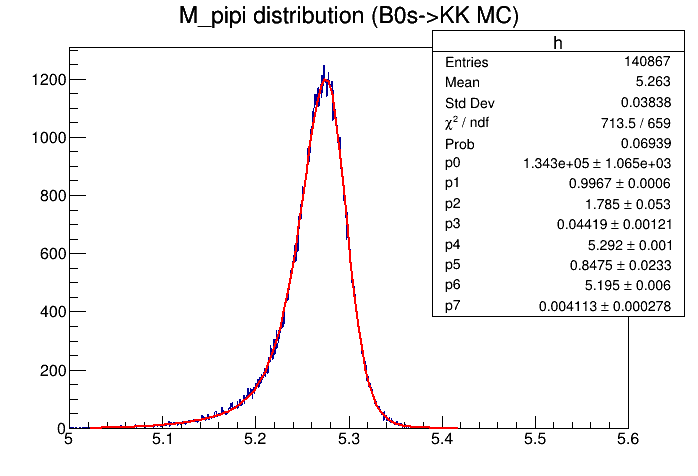
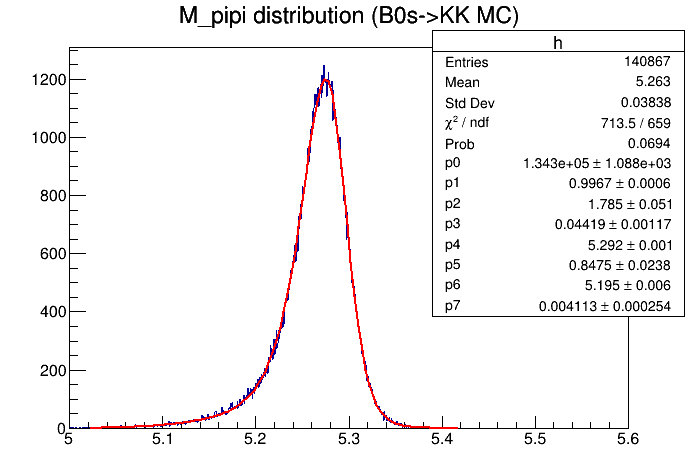
Fit functions for template fit with C++ shared library

diff --git a/template_fit/model_functions.py b/template_fit/model_functions.py
@@ -5,6 +5,16 @@ import ROOT
 import numpy as np
 
 
+def InitializeFunctionsLibrary():
+    """
+    Function that loads into the Python environment the shared library
+    containing the fit functions.
+    """
+    ROOT.gInterpreter.ProcessLine('#include "header.h"')
+    ROOT.gSystem.Load(
+        '~/cmepda/cmepda-PiKclassifier/template_fit/func_library.so')
+
+
 def BreitWigner(LowLim, UpLim, funcname='BW', pars=(2000, 5.28, 0.5)):
     """
     Returns a TF1 function corresponding to a relativistic Breit-Wigner.
@@ -25,6 +35,7 @@ def BreitWigner(LowLim, UpLim, funcname='BW', pars=(2000, 5.28, 0.5)):
     pars: tuple of double
         Initial parameters given to the function
     """
+
     arg_gamma = 'TMath::Sqrt([1]*[1]*([2]*[2] + [1]*[1]))'
     arg_kappa = '([1]*[2]*' + arg_gamma + \
         '/TMath::Sqrt([1]*[1] + ' + arg_gamma + '))'
@@ -46,13 +57,9 @@ def BreitWigner(LowLim, UpLim, funcname='BW', pars=(2000, 5.28, 0.5)):
 def DoubleGaussian(LowLim, UpLim, funcname='DoubleGaussian',
                    pars=(1.4e5, 0.5, 5.28, 0.02, 5.28, 0.02)):
     """
-    Returns a TF1 function corresponding to a weighted sum of two Gaussians.
-    The parameters are written in C++ ROOT style and represent the following
-    quantities:
-        [0] = Normalization
-        [1] = Fraction of first gaussian elements in distribution
-        [2], [3] = Mean and Sigma for first Gaussian
-        [4], [5] = Mean and Sigma for second Gaussian
+    Returns a TF1 function corresponding to a weighted sum of two Gaussians;
+    its expression is written in a C++ shared library and is imported in the
+    Python environment by the InitializeFunctionsLibrary() function.
 
     Parameters
     ----------
@@ -65,12 +72,9 @@ def DoubleGaussian(LowLim, UpLim, funcname='DoubleGaussian',
     pars: tuple of double
         Initial parameters given to the function
     """
-    const = '1/2.5066'
-    gaus1 = 'TMath::Exp(-(x-[2])*(x-[2])/(2*[3]))/[3]'
-    gaus2 = 'TMath::Exp(-(x-[4])*(x-[4])/(2*[5]))/[5]'
-    str = '[0]*6e-4*([1]*' + gaus1 + ' + (1-[1])*' + gaus2 + ')*' + const
+    InitializeFunctionsLibrary()
 
-    function = ROOT.TF1(funcname, str, LowLim, UpLim, 6)
+    function = ROOT.TF1(funcname, ROOT.DoubleGaussian, LowLim, UpLim, 6)
 
     [function.SetParameter(k, pars[k]) for k in range(6)]
 
@@ -87,12 +91,8 @@ def GaussJohnson(LowLim, UpLim, funcname='Gauss+Johnson',
                  pars=(1.4e05, 0.99, 1.75, 0.043, 5.29, 0.85, 5.19, 0.06)):
     """
     Returns a TF1 function corresponding to a weighted sum of a Johnson and a
-    Gaussian. The parameters in the definition are written in C++ ROOT style
-    and represent the following quantities:
-        [0] = Normalization
-        [1] = Fraction of first gaussian elements in distribution
-        [2], [3], [4], [5] = Johnson parameters (need to be positive!)
-        [6], [7] = Mean and Sigma for Gaussian
+    Gaussian; its expression is written in a C++ shared library and is imported
+    in the Python environment by the InitializeFunctionsLibrary() function.
 
     Parameters
     ----------
@@ -105,16 +105,9 @@ def GaussJohnson(LowLim, UpLim, funcname='Gauss+Johnson',
     pars: tuple of double
         Initial parameters given to the function
     """
-    const = '1/2.5066'
-    arg = '((x-[4])/[3])'
-    expo_arg = '([5]+[2]*TMath::ASinH' + arg + ')'
-    expo = 'TMath::Exp(-0.5*' + expo_arg + '*' + expo_arg + ')'
-    denom = 'TMath::Sqrt(1+(' + arg + '*' + arg + '))'
-    johns = '([2]/[3])*' + expo + '/' + denom
-    gaus = 'TMath::Exp(-(x-[6])*(x-[6])/(2*[7]))/[7]'
-    str = '[0]*6e-4*([1]*' + johns + ' + (1-[1])*' + gaus + ')*' + const
+    InitializeFunctionsLibrary()
 
-    function = ROOT.TF1(funcname, str, LowLim, UpLim, 8)
+    function = ROOT.TF1(funcname, ROOT.GaussJohnson, LowLim, UpLim, 8)
     [function.SetParameter(k, pars[k]) for k in range(8)]
 
     function.SetParLimits(1, 0, 1)
@@ -124,27 +117,14 @@ def GaussJohnson(LowLim, UpLim, funcname='Gauss+Johnson',
 
     return function
 
-    """
-def func_dictionary():
-    dictionary = {}
-
-    dictionary["BreitWigner"] = BreitWigner()
-    dictionary["DoubleGaussian"] = DoubleGaussian()
-    dictionary["GaussJohnson"] = GaussJohnson()
-
-    return dictionary
-"""
-
 
 if __name__ == "__main__":
 
     c = ROOT.TCanvas()
     c.cd()
 
-    a = BreitWigner(5, 5.6, pars=(1, 5.28, 0.02))
-
-    # d = func_dictionary()
-    # print(d.values())
+    a = GaussJohnson(5., 5.6, pars=(
+                     1.4e05, 0.99, 1.75, 0.043, 5.29, 0.85, 5.19, 0.06))
 
     a.Draw()
     c.SaveAs("prova_func.png")

diff --git a/template_fit/template_fit.py b/template_fit/template_fit.py
@@ -6,7 +6,7 @@ population present in the dataset Bhh_data.root
 import time
 import ROOT
 import numpy as np
-from model_functions import BreitWigner, DoubleGaussian, GaussJohnson
+from model_functions import DoubleGaussian, GaussJohnson
 
 
 def fit_on_montecarlo(df, var, fitfunc, img_name="template.png", Nbins=1000,
@@ -18,27 +18,25 @@ def fit_on_montecarlo(df, var, fitfunc, img_name="template.png", Nbins=1000,
 
     # [fitfunc.SetParameter(k, pars[k]) for k in range(len(pars))]
     fitvar = h.Fit(fitfunc, "SQLR")
-
+    '''
     c = ROOT.TCanvas()
     c.cd()
     h.Draw()
     fitfunc.Draw("same")
     c.SaveAs(img_name)
-
+    '''
     print(f'Chi2 = {fitvar.Chi2()}')
     print(f'Ndof = {fitvar.Ndf()}')
     print(f'Prob = {fitvar.Prob()}')
 
-    '''
     exit_pars = []
     for k in range(fitfunc.GetNpar()):
         exit_pars.append(fitfunc.GetParameter(k))
-    '''
 
-    return fitfunc, h
+    return exit_pars
 
 
-def fit_on_data(df, var, templ_func_pi, templ_func_k, img_name="template.png",
+def fit_on_data(df, var, templ_pars_pi, templ_pars_k, img_name="Fit_data.png",
                 Nbins=1000, h_name="h", h_title="h", LowLim=5., UpLim=5.6):
     """
     """
@@ -46,23 +44,37 @@ def fit_on_data(df, var, templ_func_pi, templ_func_k, img_name="template.png",
     ROOT.gStyle.SetOptFit(11111)
     h = df.Histo1D((h_name, h_title, Nbins, LowLim, UpLim), var)
 
-    templ_func_pi.SetTitle("f_pi")
-    templ_func_k.SetTitle("f_k")
-    f_data = ROOT.TF1("f_data", "[0]*( 1-[1])*f_pi + [1]*f_k )", LowLim, UpLim)
+    f_data = ROOT.TF1("f_data", ROOT.TemplateComposition, LowLim, UpLim, 16)
+    # Per tenere sotto controllo che fa TemplateComposition è meglio costruire
+    # la rispettiva funzuione in model_functions.py
+
+    [f_data.FixParameter(2+k, templ_pars_k[k]) for k in range(8)]
+    [f_data.FixParameter(10+k, templ_pars_pi[k]) for k in range(6)]
+
+    fitvar = h.Fit(f_data, "SQLR")
+
+    c = ROOT.TCanvas()
+    c.cd()
+    h.Draw()
+
+    f_data.Draw("same")
+    c.SaveAs(img_name)
+
+    print(
+        f'Frazione di K = {f_data.GetParameter(1)} +- {f_data.GetParError(1)}')
+    print(f'Chi2 = {fitvar.Chi2()}')
+    print(f'Ndof = {fitvar.Ndf()}')
+    print(f'Prob = {fitvar.Prob()}')
 
 
 if __name__ == "__main__":
     file1 = '../root_files/tree_B0PiPi_mc.root'
     file2 = '../root_files/tree_B0sKK_mc.root'
+    file_data = '../root_files/tree_Bhh_data.root'
     tree = 't_M0pipi;2'
     var = 'M0_Mpipi'
 
-    # functions = func_dictionary()
-
     df_pi, df_k = ROOT.RDataFrame(tree, file1), ROOT.RDataFrame(tree, file2)
-
-    #pars = (8000, 0.5, 5.28, 0.015, 5.28, 0.015)
-    #pars = (2290, 5.28, 0.016)
 
     templ_pi = fit_on_montecarlo(df_pi, var, DoubleGaussian(5.02, 5.42),
                                  img_name='template_fit_pi.png',
@@ -70,3 +82,7 @@ if __name__ == "__main__":
     templ_k = fit_on_montecarlo(df_k, var, GaussJohnson(5.02, 5.42),
                                 img_name='template_fit_k.png',
                                 h_title='M_pipi distribution (B0s->KK MC)')
+
+    df_data = ROOT.RDataFrame('t_M0pipi;1', file_data)
+
+    fit_on_data(df_data, var, templ_pi, templ_k, LowLim=5.02, UpLim=5.42)

diff --git a/template_fit/fit_functions.cpp b/template_fit/fit_functions.cpp
@@ -1,0 +1,42 @@
+#include "header.h"
+
+
+using namespace ROOT;
+
+double Gaus(double* x, double* par) {
+    return TMath::Exp(-(x[0]-par[0])*(x[0]-par[0])/(2*par[1]))/TMath::Sqrt(2*TMath::Pi()*par[1]*par[1]);
+}
+
+
+double Johnson(double* x, double* par) {
+    double c = 1/TMath::Sqrt(2*TMath::Pi());
+    double arg = (x[0]-par[2])/par[1];
+    double expo_arg = (par[3]+par[0]*TMath::ASinH(arg));
+    double expo = TMath::Exp(-0.5*expo_arg*expo_arg);
+    double denom = TMath::Sqrt(1+(arg*arg));
+    return c*(par[0]/par[1])*expo/denom;
+}
+
+
+double DoubleGaussian(double* x, double* par) {
+    // In total has 6 parameters
+    return (6e-4)*par[0]*(par[1]*Gaus(x, &par[2]) + (1-par[1])*Gaus(x, &par[4]));
+}
+
+
+double GaussJohnson(double* x, double* par) {
+    // In total has 8 parameters
+    return (6e-4)*par[0]*(par[1]*Johnson(x, &par[2]) + (1-par[1])*Gaus(x, &par[6]));
+}
+
+
+double TemplateComposition(double* x, double* par) {
+    // In total has 16 parameters
+    return par[0]*(par[1]*GaussJohnson(x, &par[2]) + (1-par[1])*DoubleGaussian(x, &par[6]));
+}
+
+
+int main() {
+    std::cout << "Ciao" << std::endl;
+    return 0;
+}

diff --git a/template_fit/header.h b/template_fit/header.h
@@ -1,0 +1,16 @@
+#include <iostream>
+#include "TROOT.h"
+#include "TMath.h"
+
+
+double Gaus(double* x, double* par);
+
+double Johnson(double* x, double* par);
+
+double DoubleGaussian(double* x, double* par);
+
+double GaussJohnson(double* x, double* par);
+
+double TemplateComposition(double* x, double* par);
+
+double Square(double x);
